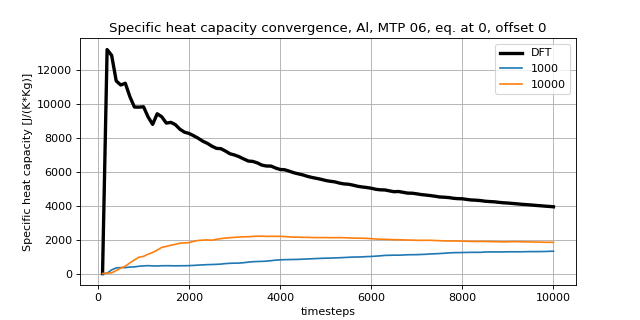
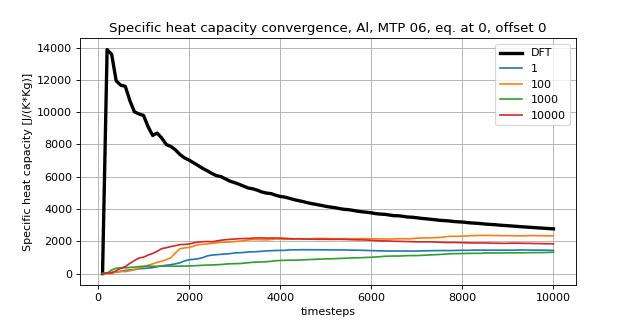
added xdatcar.py which can read data from XDATCAR file. Used this information to solve own issues; temperature is calculated correctly now. vasp_parser.py needs cleaning up

diff --git a/vasp_parser.py b/vasp_parser.py
@@ -2,6 +2,7 @@
 from ase.io.vasp import *
 import numpy as np
 import os
+from ase import units
 from ase.io.trajectory import Trajectory
 import properties as pr
 from ase.md.velocitydistribution import MaxwellBoltzmannDistribution
@@ -142,13 +143,13 @@ def calculate_properties_vasp(element, eq):
     atoms = [atom for atom in traj]
     id = str(element)+'_'+'DFT_eq_' + str(eq)
     
-    # delete old DFT properties file, it it exists
+    # delete old DFT properties file, if it exists
     if os.path.exists('property_calculations/properties_' + id + '.txt'):
         os.remove('property_calculations/properties_' + id + '.txt')
 
     pr.initialize_properties_file(atoms[1], atoms[0][:4], id, 5, True) 
     #for atom in atoms:
-    print('atoms', atoms[0])
+    #print('atoms', atoms[0])
     velocities = np.load(element +'_300K_infiles/velocities.npy')
     #print(velocities[:10])
     #print(velocities[0])
@@ -162,11 +163,12 @@ def calculate_properties_vasp(element, eq):
     etots = []
     
     # set all velocities first
+    #print(velocities[0])
+    #print(len(velocities))
     for i in range(len(atoms)):
         if i != len(atoms) - 1:
         #    print(i)
-            # is this multiplication of 10 physically motivated?
-            atoms[i].set_velocities(velocities[i]*10)
+            atoms[i].set_velocities(velocities[i])
 
     for i in range(len(atoms) - eq):
         i += eq
@@ -180,12 +182,25 @@ def calculate_properties_vasp(element, eq):
         #print(atom.get_forces())
         #print(atoms[i].get_positions())
         #print(atoms[i].get_momenta())
+
         
         if i % 100 == 0:
-            print(i, eq)
+        #print(i, eq)
+            # calculate temp by hand
+            ke = 0
+            for j, a in enumerate(atoms[i]):
+                #print(i, a)
+                v = atoms[i].get_velocities()[j]
+                ke_comp = np.dot(v, v) * atoms[i].get_masses()[j] / 2
+                ke += ke_comp
+                #v2 = (atoms[i].get_velocities()**2))
+            
+            # kinetic e and ase ke are the same
+            #print('kinetic e', ke)
+            #print('ase ke', atoms[i].get_kinetic_energy())
+            ke = ke * 1E7 / units._Nav / units._e
+            
             _, _, etot, t = pr.energies_and_temp(atoms[i])
-            #print('get temperature', atoms[i].get_temperature())
-            #print('my temperature', t)
             temps.append(t)
             etots.append(etot)
             Cvs.append(pr.specific_heat_NVT(etots, len(atoms[i]), atoms[i], t))
@@ -193,10 +208,9 @@ def calculate_properties_vasp(element, eq):
             pr.calc_properties(atoms[eq], atoms[i], id, 5, True)
     pr.finalize_properties_file(atoms[-1], id, 5, True, True)
 
-
 if __name__ == "__main__":
     clear_infiles("Al_300K/")
-    clear_infiles("Si_300K/")
+    #clear_infiles("Si_300K/")
     
     vasp_read("Al_300K/", "xml")
     #vasp_read("Si_300K/", "OUTCAR")
@@ -205,5 +219,5 @@ if __name__ == "__main__":
     #calculate_properties_vasp('Si', 0)
     #calculate_properties_vasp('Al', 0)
     #calculate_properties_vasp('Si', 6000)
-    #calculate_properties_vasp('Al', 0)
+    calculate_properties_vasp('Al', 0)
     #calculate_properties_vasp('Si', 2000)

diff --git a/visualization.py b/visualization.py
@@ -416,7 +416,7 @@ def plot_properties_convergence(element, eq, mtp, final=False, offset=0, varianc
     
     if final:
         if element == 'Al':
-            indeces = [1, 10, 100, 1000, 10000]
+            indeces = [1, 100, 1000, 10000]
             indeces_str = [str(i) for i in indeces]
         elif element == 'Si':
             indeces = [1, 10, 100, 1000]
@@ -706,7 +706,7 @@ if __name__ == "__main__":
         for eq in eqs:
             for offset in offsets:
                 print('mtp: ', mtp, '. eq: ', eq, '. offset: ', offset) 
-                plot_properties_convergence('Si', eq, mtp, True, offset, False)
+                plot_properties_convergence('Al', eq, mtp, True, offset, False)
                 #plot_properties_convergence('Si', eq, mtp, True, offset)
 
     #plot_forces('all')

diff --git a/properties.py b/properties.py
@@ -162,7 +162,12 @@ def energies_and_temp(a):
     epot = a.get_potential_energy() / len(a)
     ekin = a.get_kinetic_energy() / len(a)
     etot = epot + ekin
-    t = ekin / (1.5 * units.kB)
+    
+    # convert to eV
+    ekin = a.get_kinetic_energy() * 1E7 / units._Nav / units._e
+    # degrees of freedom (translational only)
+    dof = (len(a) - 1) * 3
+    t = 2 * ekin / (units.kB * dof)
     return epot, ekin, etot, t
 
 def lattice_constants(a):
